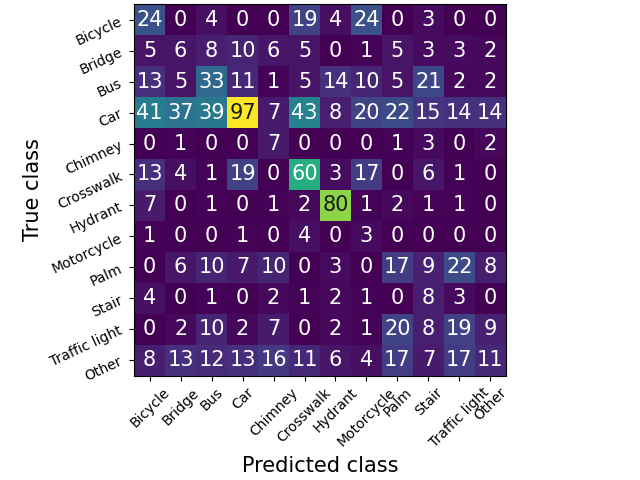
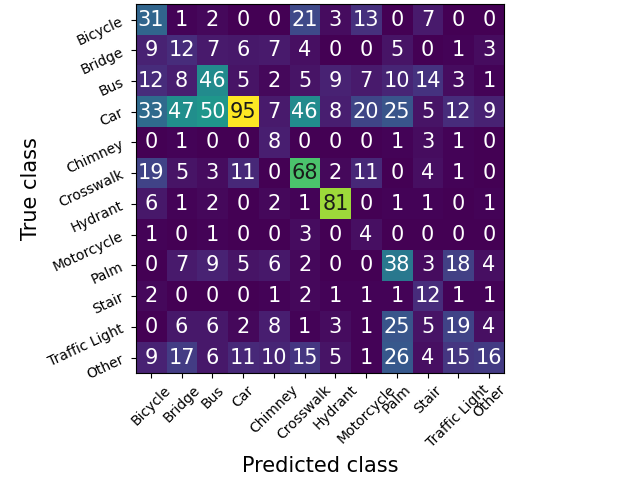
api working

diff --git a/recaptcha_classifier/server/api.py b/recaptcha_classifier/server/api.py
@@ -4,7 +4,7 @@ import torch
 from fastapi import FastAPI, File, UploadFile, Response
 from fastapi.responses import JSONResponse
 from PIL import Image
-from .load_model import load_main_model
+from .load_model import load_main_model, load_simple_model
 from recaptcha_classifier.detection_labels import DetectionLabels
 from recaptcha_classifier.constants import IMAGE_SIZE
 from pydantic import BaseModel
@@ -24,15 +24,14 @@ device = torch.device("cuda" if torch.cuda.is_available() else "cpu")
 def load_models():
     """Load the models into memory at startup."""
     global model
-    model = load_main_model(device)
-    model.to(device)
+    model = load_simple_model(device)
 
 @app.post("/predict", response_model=PredictionResponse)
 async def predict(response: Response, file: UploadFile = File(...)) -> PredictionResponse:
     try:
         data = await file.read()
         img = Image.open(io.BytesIO(data)).convert("RGB")
-        result = predict(model, device, img)
+        result = inference(model, device, img)
         
         response.headers["Cache-Control"] = "max-age=3600"
         
@@ -43,7 +42,7 @@ async def predict(response: Response, file: UploadFile = File(...)) -> Predictio
             content={"error": str(e)}
         )
     
-def predict(model: torch.nn.Module, device: torch.device, image: Image.Image) -> dict:
+def inference(model: torch.nn.Module, device: torch.device, image: Image.Image) -> dict:
     """
     Handles the prediction logic for the uploaded image.
     """
@@ -58,7 +57,7 @@ def predict(model: torch.nn.Module, device: torch.device, image: Image.Image) ->
         label = DetectionLabels.from_id(id)
         
     return {
-        "label": label.name,
-        "confidence": float(output.max().item()),
+        "label": label,
+        "confidence": f"{float(output.max().item()) * 100:.2f}%",
         "class_id": id
     }

diff --git a/recaptcha_classifier/server/app.py b/recaptcha_classifier/server/app.py
@@ -1,6 +1,7 @@
 import streamlit as st
 import torch
 from typing import Literal
+import requests
 
 
 class StreamlitApp:
@@ -54,10 +55,25 @@ class StreamlitApp:
         st.title("Inference")
         st.write("Please upload an image for inference.")
 
-        uploaded_file = st.file_uploader("Choose an image...", type=["jpg", "jpeg", "png"])
+        file = st.file_uploader("Choose an image...", type=["jpg", "jpeg", "png"])
         
-        if uploaded_file is not None:
-            # process and call api
-            st.image(uploaded_file, caption='Uploaded Image.', use_column_width=True)
+        if file is not None:
+            st.image(file, caption='Uploaded Image.', use_column_width=True)
             if st.button("Run Inference"):
-                pass
+                files = {"file": {file.getvalue()}}
+                
+                try:
+                    resp = requests.post("http://localhost:8000/predict", files=files)
+                    resp.raise_for_status()
+                    result = resp.json()
+                    
+                    st.success("Prediction successful!")
+                    st.write(f"Label: {result['label']}")
+                    st.write(f"Confidence: {result['confidence']:.2f}")
+                    st.write(f"Class ID: {result['class_id']}")
+                except Exception as e:
+                    st.error(f"Error during inference: {str(e)}")
+
+if __name__ == "__main__":
+    app = StreamlitApp()
+    app.render()

diff --git a/recaptcha_classifier/server/load_model.py b/recaptcha_classifier/server/load_model.py
@@ -1,9 +1,6 @@
 import torch
-from torchvision import transforms
-from PIL import Image
-
+import os
 from ..models.main_model.model_class import MainCNN
-from recaptcha_classifier.detection_labels import DetectionLabels
 
 from recaptcha_classifier.constants import (
     MODELS_FOLDER,
@@ -18,7 +15,7 @@ def load_simple_model(device: torch.device = torch.device("cpu")):
     """
     from ..models.simple_classifier_model import SimpleCNN
     model = SimpleCNN()
-    path = MODELS_FOLDER + "/" + SIMPLE_MODEL_FILE_NAME
+    path = os.path.join(MODELS_FOLDER, SIMPLE_MODEL_FILE_NAME)
     model.load_state_dict(torch.load(path, map_location=device))
     model.to(device)
     model.eval()
@@ -28,7 +25,7 @@ def load_main_model(device: torch.device = torch.device("cpu")):
     """
     Load the main CNN model for image classification.
     """
-    path = MODELS_FOLDER + "/" + MAIN_MODEL_FILE_NAME
+    path = os.path.join(MODELS_FOLDER, MAIN_MODEL_FILE_NAME)
     checkpoint = torch.load(path, map_location=device)
     config = checkpoint['config']
     model = MainCNN(

diff --git a/main.py b/main.py
@@ -49,10 +49,14 @@ def handle_action(choice: str):
         handle_action(choice)
 
 def ui():
-    from recaptcha_classifier.server.app import StreamlitApp
+    import subprocess
+    import os
+    root_dir = os.path.dirname(os.path.abspath(__file__))
+    streamlit_file = os.path.join(root_dir, "recaptcha_classifier", "server", "app.py")
 
-    app = StreamlitApp()
-    app.render()
+    subprocess.Popen(["uvicorn", "recaptcha_classifier.server.api:app", "--reload"])
+    
+    subprocess.run(["streamlit", "run", streamlit_file])
 
 def train_simple_cnn():
     from recaptcha_classifier.pipeline.simple_cnn_pipeline import SimpleClassifierPipeline

diff --git a/recaptcha_classifier/pipeline/base_pipeline.py b/recaptcha_classifier/pipeline/base_pipeline.py
@@ -66,7 +66,7 @@ class BasePipeline:
             model=self._model,
             test_loader=self._loaders['test'],
             device=self._trainer.device,
-            class_names=self._class_map.dataset_classnames,
+            class_names=self._class_map.dataset_classnames(),
             plot_cm=plot_cm
         )
         return eval_results

diff --git a/recaptcha_classifier/pipeline/main_model_pipeline.py b/recaptcha_classifier/pipeline/main_model_pipeline.py
@@ -73,6 +73,7 @@ class MainClassifierPipeline(BasePipeline):
             num_classes=self.class_map_length)
     
     def save_model(self):
+        os.makedirs(self.save_folder, exist_ok=True)
         torch.save({
             "model_state_dict": self._model.state_dict(),
             "config": {
